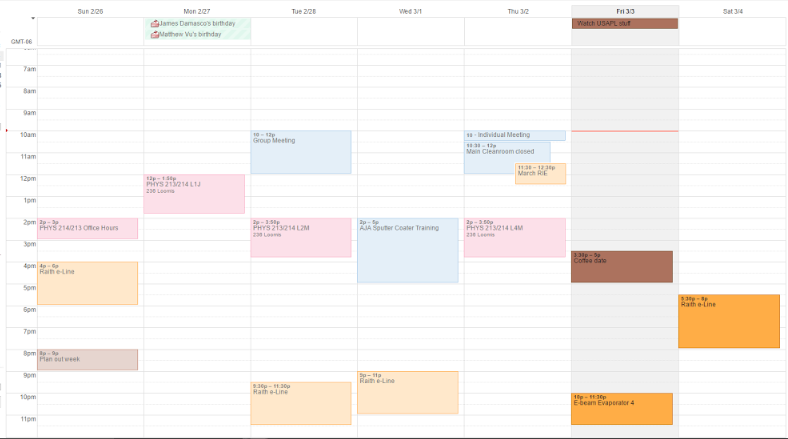
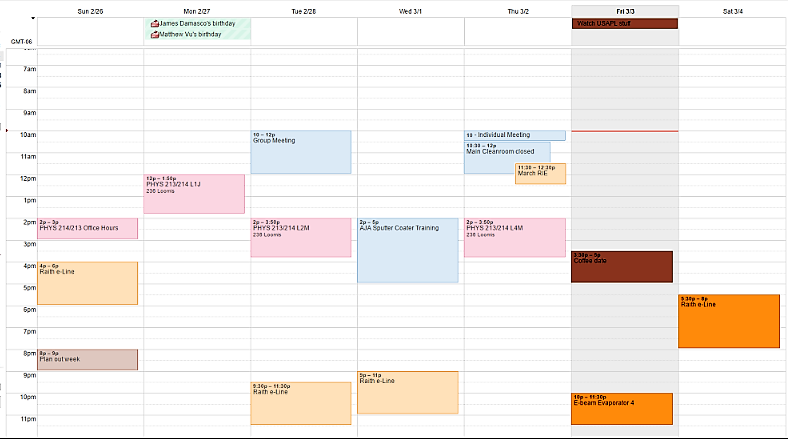
Rescaled images, added in spaces, changed navbar CSS

diff --git a/assets/css/style.scss b/assets/css/style.scss
@@ -5,14 +5,16 @@
 
 nav ul {
   list-style-type: none;
-  margin: 0;
-  padding: 0;
+  margin: 20px;
+  padding: 20px;
   background-color: #f3f3f3;
   overflow: hidden;
 }
 
 nav ul li {
   float: left;
+  margin: 10px;
+  padding: 10px;
 }
 
 nav ul li a{
@@ -20,25 +22,4 @@ nav ul li a{
   color: #666;
   text-align: center;
   padding: 14px 16 px;
-  text-decoration: none;
-}
-
-footer ul {
-  list-style-type: none;
-  margin: 0;
-  padding: 0;
-  background-color: #f3f3f3;
-  overflow: hidden;
-}
-
-footer ul li {
-  float: left;
-}
-
-footer ul li a{
-  display: block;
-  color: #666;
-  text-align: center;
-  padding: 14px 16 px;
-  text-decoration: none;
 }

diff --git a/_layouts/default.html b/_layouts/default.html
@@ -19,15 +19,11 @@
 	      <li><a href="/">Home</a></li>
 	      <li><a href="/about">About</a></li>
 	      <li><a href="/blog">Blog</a></li>
+		  <li><a href="https://github.com/pbnjeff89">GitHub</a></li>
 	    </ul>
     </nav>
     <div class="container">
       {{ content }}
     </div><!-- /.container -->
-    <footer>
-      <ul>
-	    <li><a href="https://github.com/pbnjeff89">GitHub</a></li>
-      </ul>
-    </footer>
   </body>
 </html>

diff --git a/_posts/2017-03-07-MRL-GCal-Sync.md b/_posts/2017-03-07-MRL-GCal-Sync.md
@@ -8,24 +8,32 @@ I work in the Frederick Seitz Materials Research Laboratory (MRL) where research
 In a building where hundreds of researchers work on their individual projects, it is necessary to organize who can use a piece of equipment during some set times. The MRL staff have kindly developed an online scheduling system to create some order.
 
 Below is an example of what the schedule looks like for E-beam Evaporator 4:
+&nbsp;
 
 ![E-beam 4 Schedule](/assets/images/2017-03-05-mrl-schedule.png)
+&nbsp;
 
 A researcher can see which other users are using a piece of equipment at a given time, and if given sufficient privileges, he or she can reserve time. Let us suppose that a researcher reserved a time slot. Then the home page of the researcher displays all of the sessions he or she signed up for.
+&nbsp;
 
 ![Scheduled sessions](/assets/images/2017-03-05-scheduled-sessions.png)
+&nbsp;
 
 This is already a great service that the MRL staff provides, but what if you would like to sync up your schedule with your Google Calendar (or other calendar of choice)? 
+&nbsp;
 
 ![Initial Google Calendar](/assets/images/2017-03-05-initial-cal.png)
+&nbsp;
 
 It is admittedly quite trivial to look between the scheduled sessions and your Google Calendar and just click and drag your mouse to create an event, but a common problem is that schedules are quite dynamic because samples do not work out or users cancel their schedule, opening up new time slots that you would like to take. It can be difficult to track all of those changes, so I implemented a new way to show these changes on my Google Calendar.
 
 The basic idea is that I scraped information from the table of scheduled sessions and accessed the Google Calendar using its API. Unfortunately, the MRL staff have not developed the scheduling system far enough to supply an API to access schedule data, so I scraped the information by looking at the source code. Not ideal, of course, as it is absolutely not robust against changes to the webpage that displays the tables.
 
 To start, I implemented [mechanicalsoup](https://github.com/hickford/MechanicalSoup) to log into the calendar system:
+&nbsp;
 
 ![Log In screen](/assets/images/2017-03-05-mrl-login.png)
+&nbsp;
 
 As it turns out, Python really does make everything easy:
 
@@ -53,7 +61,9 @@ def extractDatetime(datetime_string):
 ```
 
 There are some other issues with dealing with RFC3339 formatting and making sure you're in the correct time zone, but aside from that the workflow is relatively simple. The final product looks like this:
+&nbsp;
 
 ![Final Google Calendar](/assets/images/2017-03-05-final-cal.png)
+&nbsp;
 
 At this point, I'm hoping to graduate soon, so I don't really know how much more I'm willing to work on this, but you could always check out my code on github and make more improvements. One thing I know that can and should absolutely be changed is the hard-coding that is used. In principle, the variables user and password ought to take information from an external file (like how the GCalHelper file accesses `client_secret.json`) so that information is kept safe and the script is not tied to a specific individual. Like I mentioned above, perhaps the MRL staff could implement an API to help the MRL users access schedule data much more easily. You could imagine that doing so could also aid in the development of a mobile app, though I think that is probably still a bit naive and trivial if the MRL staff just release a web version of the scheduling website.
